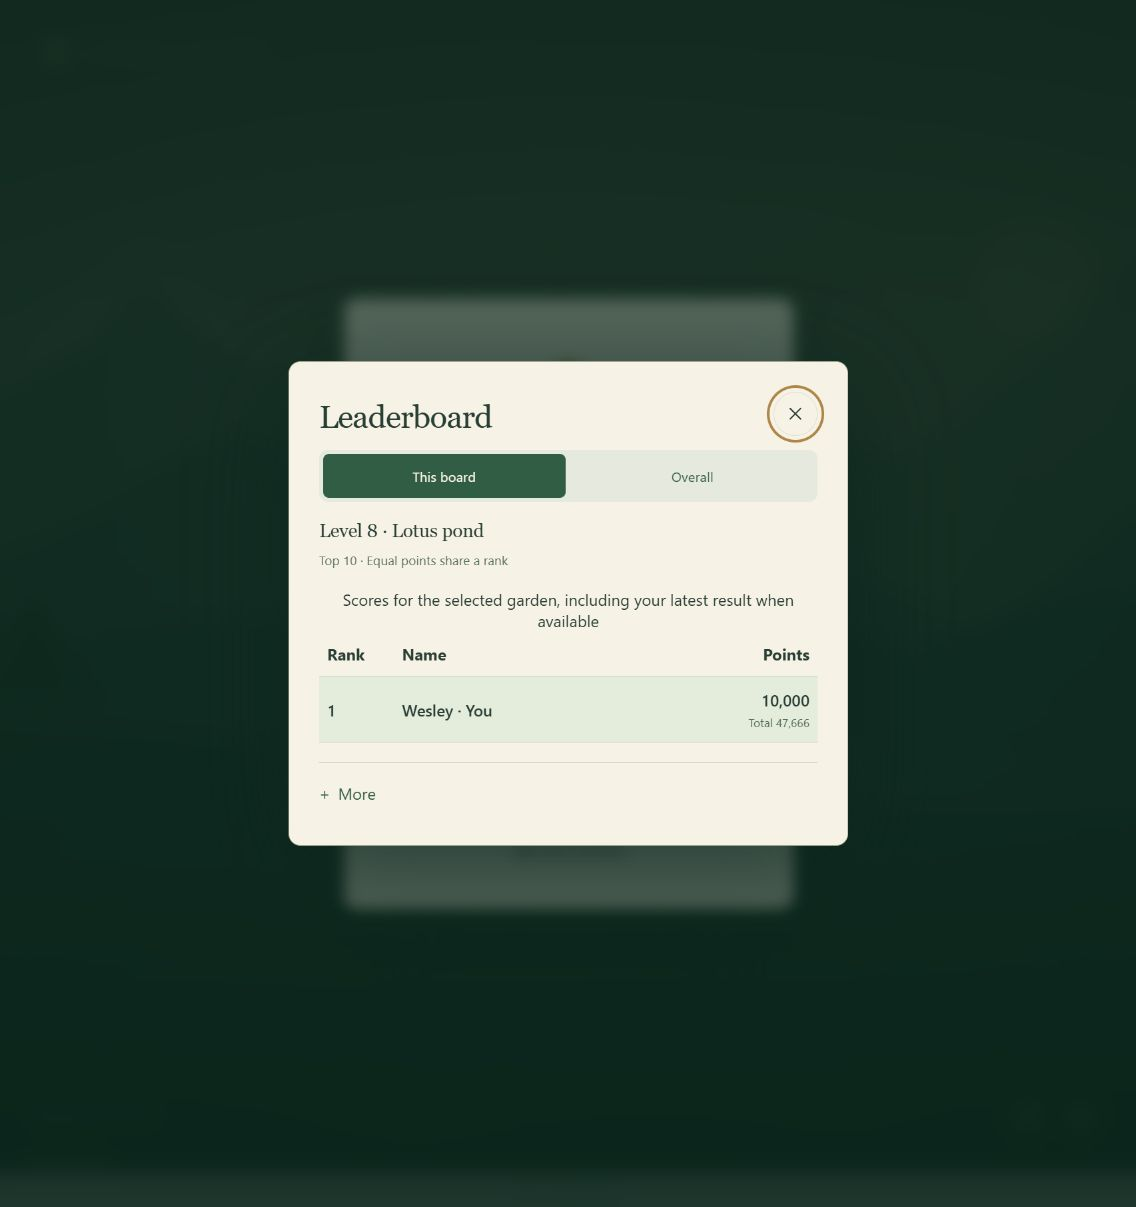
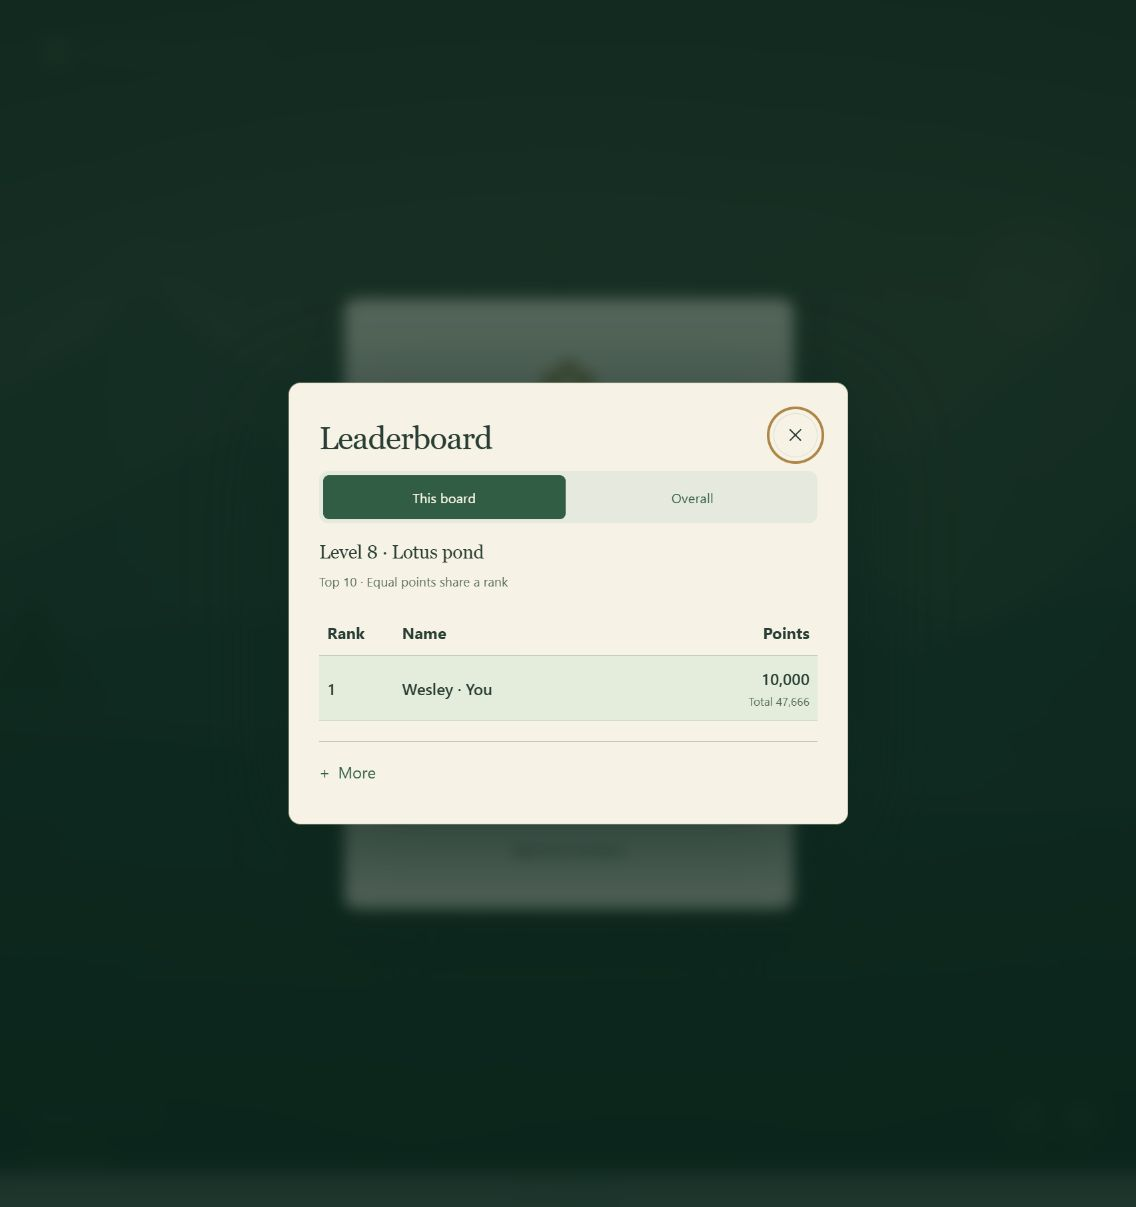
Record final live combined-total and compact-layout verification

Changed region(s): [[0.2465, 0.2759, 0.7702, 0.6131], [0.2465, 0.6131, 0.7702, 0.7051], [0.5854, 0.3985, 0.6162, 0.4292]]

diff --git a/audit/totals/REVIEW.md b/audit/totals/REVIEW.md
@@ -31,3 +31,11 @@ Coverage/evidence barriers pass locally. Publication, actual public totals and u
 Initial release 1.7.0 / mg-5472cbbe018b34 was committed, pushed and conditionally published from source 80b16bb4eedd8a5b15b696d5cfafea5ba0c38e14 after 50/16/native/PWA checks and a verified 497-file backup. Live board/Overall values agreed at 47666 across five submitted boards, and update/Later/explicit acceptance retained the completed Lotus pond checkpoint. Initial deployment and raw observations are retained in initial-deployment.json and before-caption-* rather than relabeled.
 
 The actual nonempty table screenshot exposed a pre-existing missing sr-only CSS utility: its accessibility caption appeared as an extra paragraph. Empty native preview data had not exposed it, and the numeric/layout fixture lacked a caption visibility assertion. This reopened the visual evidence barrier. Version 1.7.1 adds a scoped visually hidden caption style while retaining semantic caption text, plus a rendered caption bounds assertion. All 50 Node groups, all 16 browser groups, native checks and real worker checks were newly rerun on the final candidate named above. Numeric ranking/aggregation and saved data are unchanged. Final visual host confirmation and publication follow separately.
+
+## Final publication and live confirmation
+
+Pushed source `714d586f28e5884d946373a69a5d593afe99b122` passed every committed-source byte comparison. Fresh verified backup: 520 files, 78 directories and 16067945 bytes under ignored `.local/server-backup/2026-10-28T16-03-47-310Z`. Conditional promotion/public readback verified all 26 artifacts, with score services and old graphs retained. No wipe or policy/schema operation; owner console exited.
+
+The actual public client received the update notice and explicitly accepted version 1.7.1. An immediately-before-accept snapshot and the new client agreed on the completed Lotus pond checkpoint and current mixer (music off at 35, effects on at 65); the later preference was preserved. Current board shows 10000 points and Total 47666; Overall shows rank 1 / the acknowledged name / 47666 / 5 boards. These are submitted-current-score totals, not invented earlier progress. Caption remains in the accessible table name and measures 1×1 CSS pixels; the inspected final public screenshot has no extra paragraph. Browser error log is empty. Final actual observations/screenshots replace the public.* files while initial evidence remains under before-caption-*.
+
+TOTAL-MATH / TOTAL-VIEW / TOTAL-RECOVERY / TOTAL-PUBLISH are complete within the stated scope. Final evidence is committed/pushed separately from the promoted source, with the source digest unchanged.

diff --git a/audit/CHANGELOG.md b/audit/CHANGELOG.md
@@ -352,3 +352,8 @@
 ## MG-050 — live totals verified; caption visual gap corrected
 - Initial source 80b16bb4eedd8a5b15b696d5cfafea5ba0c38e14 promoted as mg-5472cbbe018b34 after verified backup 497 files / 75 directories / 15543211 bytes; all 26 public artifacts verified, no wipe or shared-policy change. Actual board and Overall agreed at 47666 points across five boards. PWA notice/Later/acceptance retained the completed Lotus pond checkpoint. An earlier music-on baseline and later music-off state were recorded without resetting the later setting or claiming when it changed; independent native mixer persistence passed.
 - Actual nonempty screenshot exposed an undefined sr-only utility, making a caption visible. Reopened visual acceptance rather than completing with that paragraph. Added only a scoped visually hidden caption rule and a rendered caption bounds assertion, then reran all 50 Node / 16 browser / 11 native and real worker checks on version 1.7.1 candidate mg-8a78db25e8116b / source 8a78db25e8116b86126fcf2872603f09c861d20ecdbb4dd8209982ae3e4e12f7. Initial raw evidence/deployment preserved under before-caption-* / initial-deployment.json. Final source has 26 artifacts / 393535 initial bytes. Fresh host preflight/backup/promotion and final live visual check remain required.
+
+## MG-051 — final combined totals release verified
+- Pushed 714d586f28e5884d946373a69a5d593afe99b122 passed source provenance and promoted as mg-8a78db25e8116b. Fresh verified backup 520 files / 78 directories / 16067945 bytes. All 26 artifacts publicly verified, conditional promotion and old graphs/score services retained; no wipe/schema change. Owner console exited and owned test servers/tabs were closed.
+- Actual notice and explicit public update retained the completed Lotus pond checkpoint and immediately sampled current mixer (music off 35 / effects on 65). Board score 10000 shows Total 47666; Overall shows the same 47666 across five boards with the acknowledged name marker. Caption remains semantically available but 1×1 and visually absent; final public screenshot inspected, bounded errors empty. No synthetic public records. Current public evidence is final candidate; initial release observations are separately preserved.
+- All adopted TOTAL outcomes and separate coverage/evidence/publication barriers are resolved in the recorded scope. Final gate/credential scan, evidence commit/push and clean remote-head/source-byte match complete the work.
